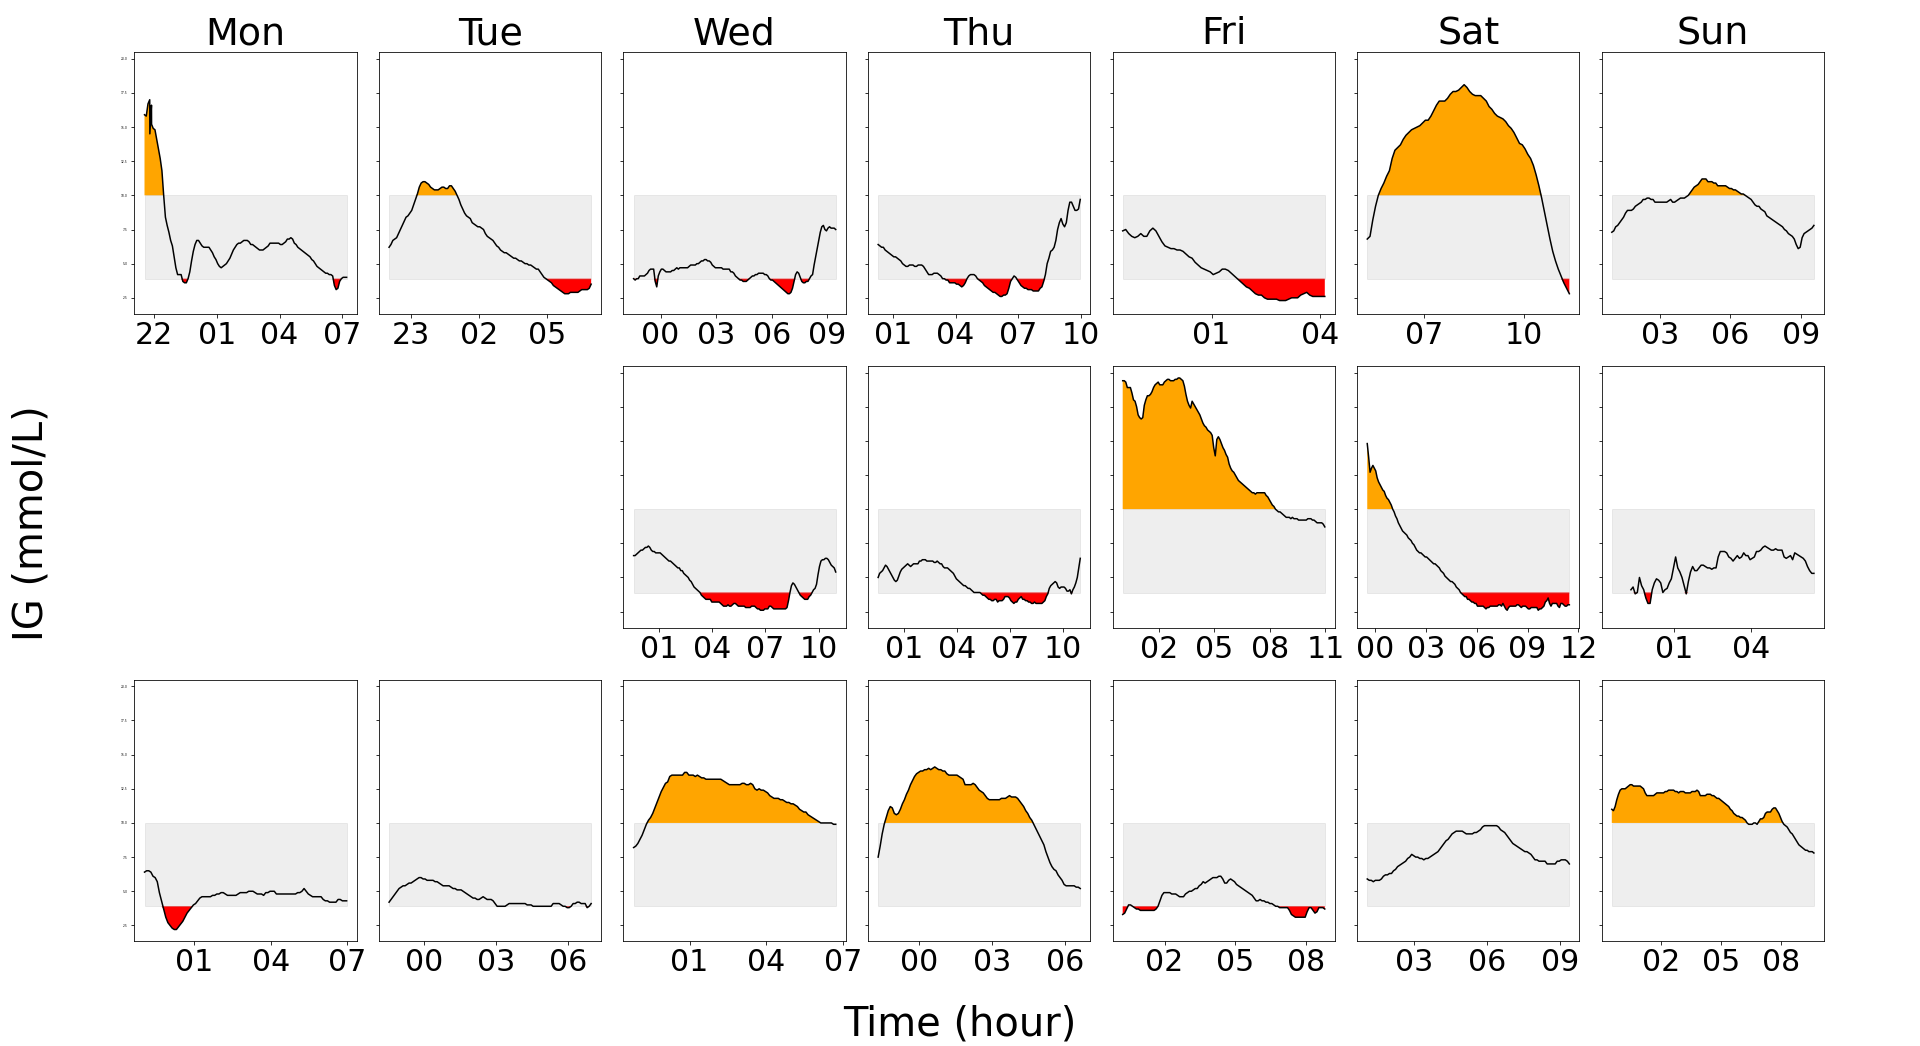
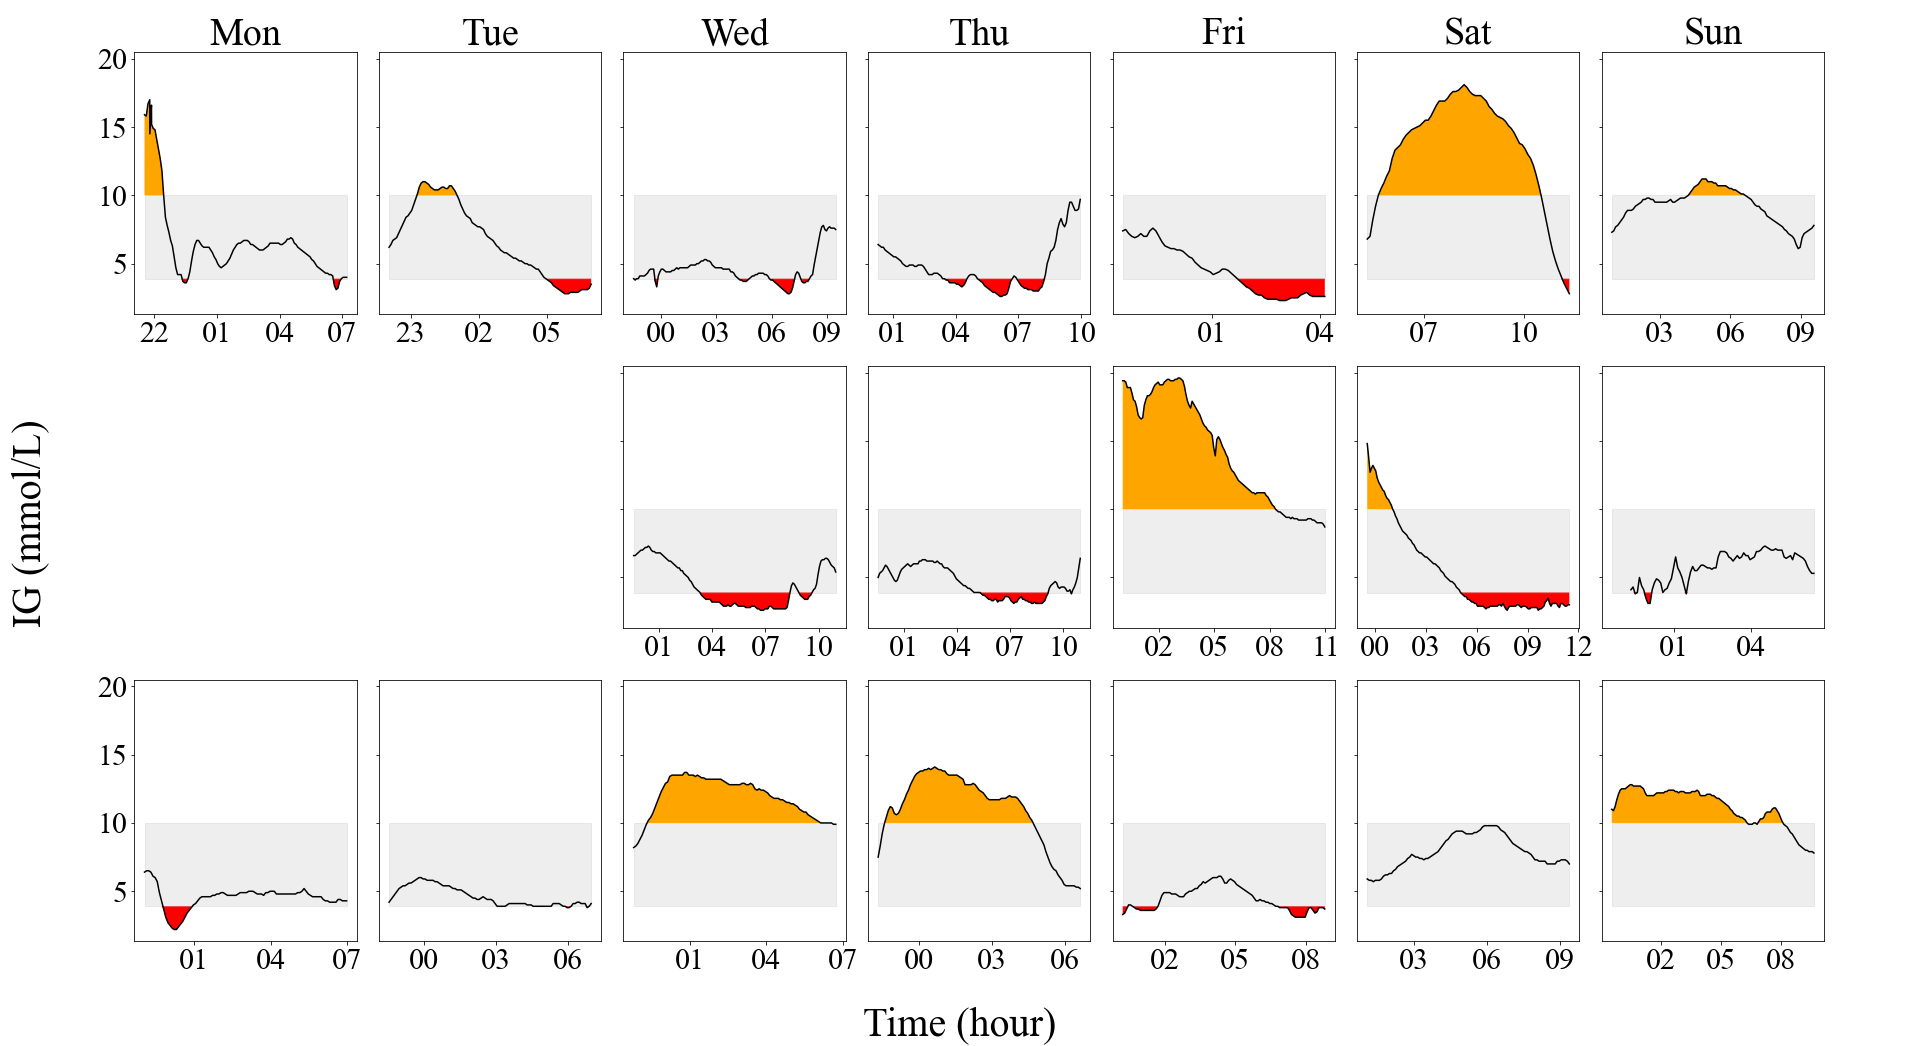
plot changes

diff --git a/PlotWeeklyFam06.py b/PlotWeeklyFam06.py
@@ -26,6 +26,8 @@ date_ranges = {
     "Third": ["2023-06-18", "2023-06-27"]
 }
 
+legend_font = {'family': 'Times New Roman', 'size': 12}
+
 # Empty lists of CGM data and summed data
 CGM_data_list = []
 summed_data_list = []
@@ -73,7 +75,7 @@ for i in range(2):
 # Set weekday titles
 weekdays = ['Mon', 'Tue', 'Wed', 'Thu', 'Fri', 'Sat', 'Sun']
 for i in range(7):
-    axs[0, i].set_title(weekdays[i], fontsize=38)
+    axs[0, i].set_title(weekdays[i], fontsize=38, fontname='Times New Roman')
 
 # Limits
 upper_lim = 10.0
@@ -128,13 +130,35 @@ for session_index, session in enumerate(sessions):
         # date_end = out_bed.strftime('-%d/%m') 
         # axs[row, col].text(.4, .95, str(date_start + date_end), ha='left', va='top', transform=axs[row, col].transAxes, fontsize=24)   
     
+        # Set the default font to Times New Roman
+        plt.rcParams['font.family'] = 'Times New Roman'
+        
         # Format the x-axis ticks  
         axs[row,col].xaxis.set_major_formatter(mdates.DateFormatter('%H'))  
         # Set the interval for x-axis ticks  
         axs[row,col].xaxis.set_major_locator(mdates.HourLocator(interval=3)) 
         # Set the fontsize of the x- and y-axis ticks 
-        axs[row, col].tick_params(axis='x', labelsize=30) 
-        axs[row, col].tick_params(axis='y', labelsize=3) 
+        # axs[row, col].tick_params(axis='x', labelsize=30) 
+        for label in axs[row, col].get_xticklabels():
+            label.set_fontname('Times New Roman')
+            label.set_fontsize(30)
+                            
+        # Set the font family and fontsize for the y-axis ticks
+        for label in axs[row, col].get_yticklabels():
+            label.set_fontname('Times New Roman')
+            label.set_fontsize(30)
+            
+        # Set the specific ticks for the y-axis
+        specific_ticks = [5, 10, 15, 20]
+        
+        # Get the current y-axis ticks
+        ticks = axs[row, col].get_yticks()
+        
+        # Hide all y-axis ticks
+        axs[row, col].set_yticks([])
+        
+        # Show the specific ticks on the y-axis
+        axs[row, col].set_yticks(specific_ticks)
     
         # Plot CGM_data 
         axs[row, col].plot(ts, data, color='k') 
@@ -160,9 +184,11 @@ for session_index, session in enumerate(sessions):
 # Get space between subplots 
 fig.subplots_adjust(left=0.07, right=0.95, top=0.95, bottom=0.1, wspace=0.1, hspace=0.2) 
 
+
+
 # Add figure-level labels with adjusted coordinates 
-fig.text(0.5, 0.01, 'Time (hour)', ha='center', fontsize=40)   
-fig.text(0.006, 0.5, 'IG (mmol/L)', va='center', fontsize=40, rotation=90)   
+fig.text(0.5, 0.01, 'Time (hour)', ha='center', fontsize=40, fontname='Times New Roman')   
+fig.text(0.006, 0.5, 'IG (mmol/L)', va='center', fontsize=40, fontname='Times New Roman', rotation=90)   
 
 # Necessary for getting a good saved image
 plt.get_current_fig_manager().full_screen_toggle()   
